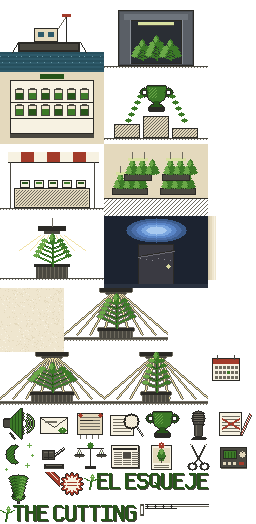
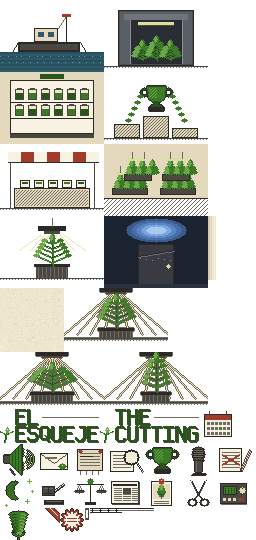
EL ESQUEJE: maqueta A4 a doble pagina (en curso)
Hoja A4 de pie (118 x 168 u) ajustada al ancho del lienzo; portada de una
hoja centrada y, dentro, la doble pagina con lomo, grapas y sombra. El arte
y la foto del mes van en la hoja izquierda (REV_FOTO, foto recortada a
REV_FOTO_H con su marco y el despiece con la vineta al doble si cabe) y el
texto del lector en la hoja derecha (rev_zona).

- rev_existe() (antes rev_hay, que choca con la de la linea 30).
- rev_pw/rev_caja/rev_hoja/rev_zona y el bloque nuevo de rects_revista.
- tests/revista_vista.gd: la caja se mide plana a plana y el lector se
  comprueba por donde arranca y por su ancho (en modo sin ventana u = 0,25
  y el widget nunca baja de su alto minimo).

Pendiente: la corrida de revista_vista se queda colgada tras abrir el
lector; sin cerrar en verde todavia.

Claude-Session: https://claude.ai/code/session_01WWCwQsjgK3rvw6gQoSEGYZ

diff --git a/ribera-verde/tools/sprites/a-mano/revista.py b/ribera-verde/tools/sprites/a-mano/revista.py
@@ -129,19 +129,32 @@ def rotulo(txt, c=V0, som=K1):
         x += 12
     return L
 
-def mancheta(txt='EL ESQUEJE'):
-    rt = rotulo(txt)
-    L = Lienzo(rt.w + 14, 20)
-    L.pega(rt, 13, 0)
-    # el esqueje de remate: el tallo cortado en diagonal con dos hojas y un brote
-    linea(L, 5, 17, 7, 6, V0)
-    linea(L, 6, 17, 8, 6, V1)
-    for s, (dx, dy) in enumerate(((-1, -1), (1, -1))):
-        bx, by = 7 + dx, 11 + dy * 2
+def _esqueje(L, x, y):
+    """el esqueje de remate: el tallo cortado en diagonal con dos hojas y un brote"""
+    linea(L, x, y + 11, x + 2, y, V0)
+    linea(L, x + 1, y + 11, x + 3, y, V1)
+    for dx, dy in ((-1, -1), (1, -1)):
+        bx, by = x + 2 + dx, y + 5 + dy * 2
         for i in range(4):
             linea(L, bx, by, bx + dx * (3 + i), by - 2 - (i >> 1), V1 if i % 2 else V0)
-    elipse(L, 8, 5, 2, 3, V2)
-    L.p(8, 4, P2)
+    elipse(L, x + 3, y - 1, 2, 3, V2)
+    L.p(x + 3, y - 2, P2)
+
+def mancheta(txt='EL ESQUEJE'):
+    """la cabecera, a dos líneas como la de cualquier revista de quiosco: el artículo encima y el nombre grande debajo, con el
+    esqueje de remate a su izquierda. A una sola línea no cabe en una hoja A4 del lienzo (115 px)."""
+    pa = txt.split(' ')
+    r1 = rotulo(pa[0]) if len(pa) > 1 else None
+    r2 = rotulo(pa[-1])
+    L = Lienzo(r2.w + 15, 36 if r1 else 20)
+    if r1:
+        L.pega(r1, 15, 0)
+        L.hl(15 + r1.w + 2, r2.w + 13, 9, K2)   # el filete que acompaña al artículo
+        L.pega(r2, 15, 17)
+        _esqueje(L, 4, 23)
+    else:
+        L.pega(r2, 15, 0)
+        _esqueje(L, 4, 6)
     return L
 
 def filete(doble=True):
